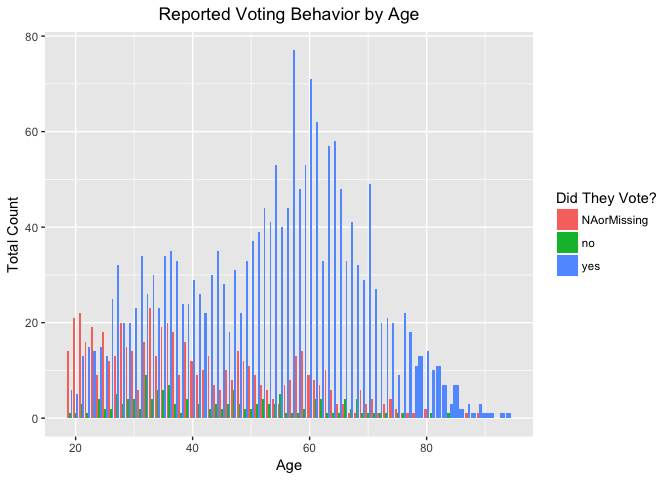
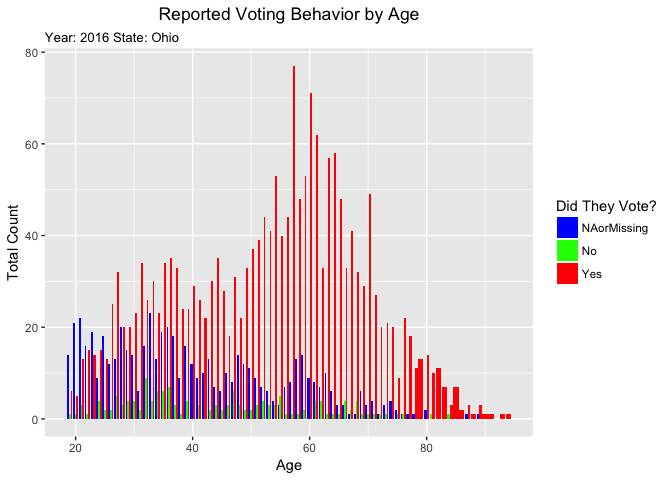
push race

diff --git a/Viz/Poster_Viz.md b/Viz/Poster_Viz.md
@@ -43,14 +43,14 @@ ggplot(vote16complete, aes(age, col = voted)) + geom_density() + ggtitle('Densit
 ``` r
 #Next I am going to filter out the voters who did not register, and then visualize density by age
 filteredRegistered <- filter(vote16complete, registered == 'Yes')
-ggplot(filteredRegistered, aes(age, col = voted)) + geom_density() + ggtitle('Density Plot of Voting Behavior by Age', subtitle =  'excluding unregistered respondents') + labs(col = "Did They Vote?")
+ggplot(filteredRegistered, aes(age, col = voted)) + geom_density() + ggtitle('Density Plot of Reported Voting Behavior by Age ', subtitle =  'Year: 2016 State: Ohio, & excluding unregistered respondents') + labs(col = "Did They Vote?") + scale_color_manual(values=c("blue", "#006400","red"), name="Did They Vote?", breaks=c("NAorMissing", "no", "yes"),  labels=c("NAorMissing", "No", "Yes"))
 ```
 
 ![](Poster_Viz_files/figure-markdown_github/unnamed-chunk-3-2.png)
 
 ``` r
 theme_update(plot.title = element_text(hjust = 0.5))
-ggplot(vote16complete, aes(age, fill = voted)) + geom_bar(position = "dodge") + ylab('Total Count') + xlab("Age") + labs(fill = "Did They Vote?") + ggtitle('Reported Voting Behavior by Age')
+ggplot(vote16complete, aes(age, fill = voted)) + geom_bar(position = "dodge") + ylab('Total Count') + xlab("Age") + labs(fill = "Did They Vote?") + ggtitle('Reported Voting Behavior by Age', subtitle =  'Year: 2016 State: Ohio') + scale_fill_manual(values=c("blue", "green","red"), name="Did They Vote?", breaks=c("NAorMissing", "no", "yes"),  labels=c("NAorMissing", "No", "Yes"))
 ```
 
 ![](Poster_Viz_files/figure-markdown_github/unnamed-chunk-4-1.png)
@@ -150,7 +150,7 @@ SEdiff <- mutate(diff, SE = sqrt((CCESpercent*(1-CCESpercent))/CCESN + ((VoterRe
 ``` r
 #plotting
 ggplot(SEdiff, aes(age, CCESminusVoterReg, col = (CCESN))) + geom_point() + ylab('Reported Voting Behavior - Actual Voting Behavior') + labs(col = "Total Number of Voters by Age") +
-    theme(legend.position="bottom")
+    theme(legend.position="bottom") +ggtitle("Difference Between Reported and Actual Voting Behavior", subtitle =  'Year: 2016 State: Ohio')
 ```
 
 ![](Poster_Viz_files/figure-markdown_github/unnamed-chunk-6-1.png)
@@ -166,14 +166,14 @@ ggplot(ohio_age_vote, aes(age, fill = vote)) + geom_bar(position = "dodge") + yl
 #figuring out which df to use
 theme_update(plot.title = element_text(hjust = 0.5))
 theme_update(plot.subtitle = element_text(hjust = 0.5))
-ggplot(ohio_age_vote1, aes(age, fill = newvote)) + geom_bar(position = "dodge") + ylab('Total Count') + xlab("Age") + ggtitle('Actual Voting Behavior by Age') + scale_fill_manual(values=c("#000000", "#FF0000"), name="Did They Vote?", breaks=c("O", "X"),  labels=c(" No", "Yes"))
+ggplot(ohio_age_vote1, aes(age, fill = newvote)) + geom_bar(position = "dodge") + ylab('Total Count') + xlab("Age") + ggtitle('Actual Voting Behavior by Age (2016)') + scale_fill_manual(values=c("#000000", "#FF0000"), name="Did They Vote?", breaks=c("O", "X"),  labels=c(" No", "Yes"))
 ```
 
 ![](Poster_Viz_files/figure-markdown_github/unnamed-chunk-8-1.png)
 
 ``` r
 #this is dumb lol
-ggplot(ohio_age_vote1, aes(age, fill = newvote)) + geom_density() + scale_fill_manual(values=c("#000000", "#FF0000"), name="Did They Vote?", breaks=c("O", "X"),  labels=c(" No", "Yes")) + ggtitle("this is dumb lol")
+ggplot(ohio_age_vote1, aes(age, col = newvote)) + geom_density(alpha = .8) + scale_color_manual(values=c("#000000", "#FF0000"), name="Did They Vote?", breaks=c("O", "X"),  labels=c(" No", "Yes")) + ggtitle("Density Plot of Actual Voting Behavior by Age", subtitle =  'Year: 2016 State: Ohio')
 ```
 
 ![](Poster_Viz_files/figure-markdown_github/unnamed-chunk-9-1.png)
